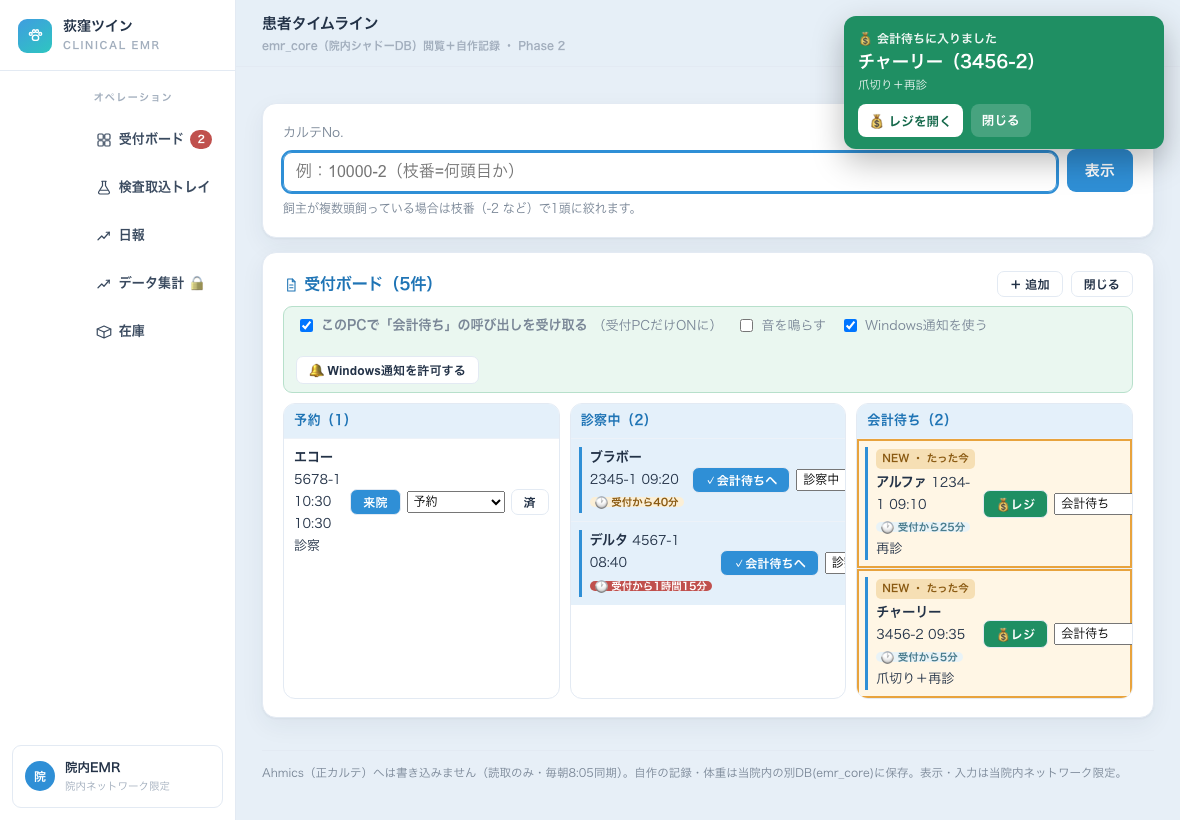
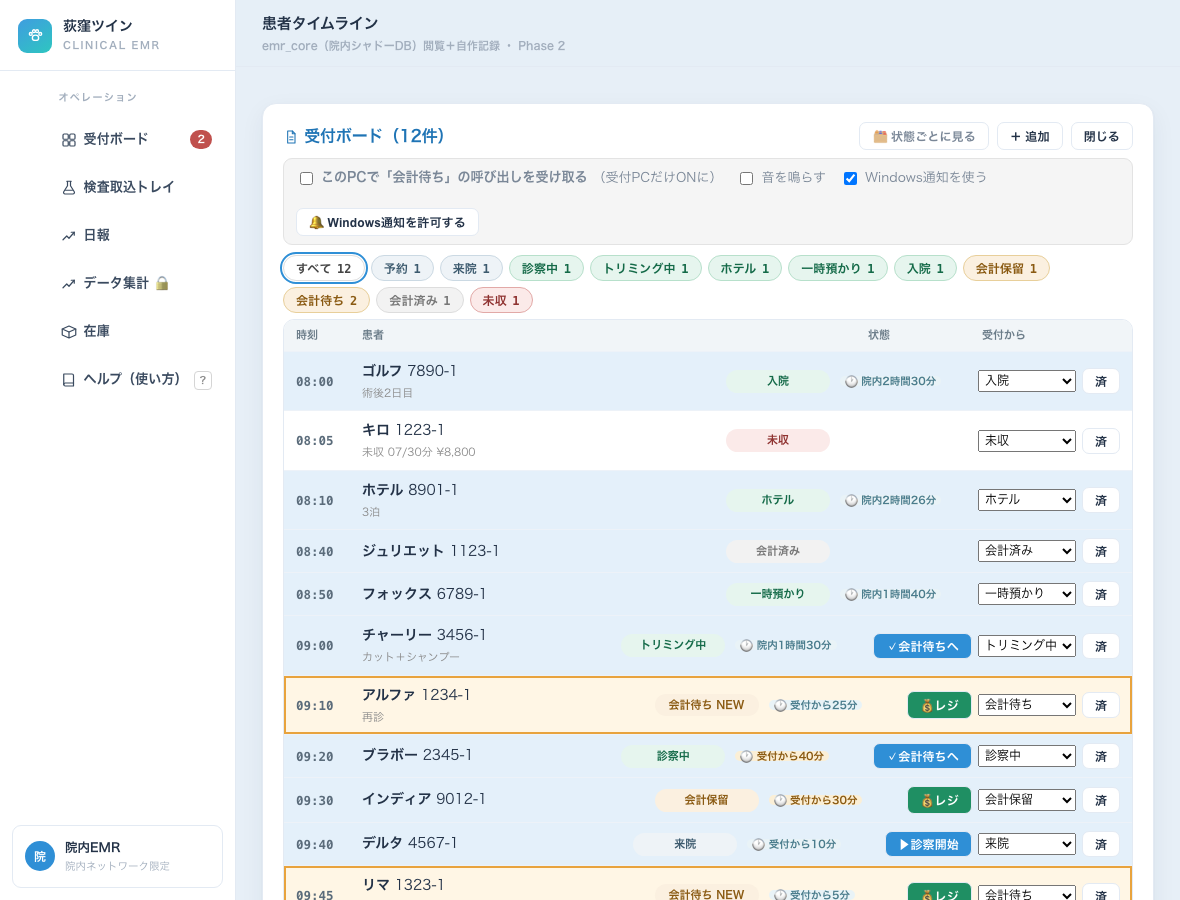
ガイドを現状に更新（受付ボードの一覧表示・検査取込トレイ・経過時間の色）

diff --git a/emr.html b/emr.html
@@ -53,7 +53,7 @@
 
 <h1>電子カルテ（患者タイムライン）使用ガイド
 <small><a href="./" style="color:#fff;text-decoration:underline">← ガイド一覧へ</a></small>
-<small>受付・看護師・獣医師向け ｜ 2026年8月15日版 ｜ 荻窪ツイン動物病院</small></h1>
+<small>受付・看護師・獣医師向け ｜ 2026年8月17日版 ｜ 荻窪ツイン動物病院</small></h1>
 
 <div class="card">
 <b>30秒まとめ</b><br>
@@ -87,22 +87,39 @@
 <tr><td>その下</td><td>来院ごとの時系列。カルテ本文・検査値・体重・会計・画像が日付順に並びます</td></tr>
 </table>
 <div class="tip">上の検索窓の右にある絞り込みで「カルテだけ」「検査だけ」などに絞れます。虫めがねで<b>本文の言葉検索</b>もできます。</div>
+<div class="tip">左の<b>オペレーション</b>（受付ボード・検査取込トレイ・日報・データ集計・在庫）は<b>常に1つだけ開きます</b>。次を開くと前のものは閉じ、［閉じる］で患者の画面に戻ります。</div>
 
 <h2>3. 受付のしごと</h2>
 
 <h3>3-1. 受付ボード</h3>
 <img class="shotw" src="emr-board.png" alt="受付ボード">
 <div class="cap">受付ボード（説明用の架空データです）</div>
-<p>左の<span class="chip c-blue">受付ボード</span>から開きます。<b>今日の予約は朝、自動で「予約」の列に並びます</b>（再来機で受付すると自動で「来院」に進みます）。</p>
+<p>左の<span class="chip c-blue">受付ボード</span>から開きます。<b>今日の予約は朝、自動で並びます</b>（再来機で受付すると自動で「来院」に進みます）。</p>
+
+<p><b>ふだんは「1人1行」の一覧です。</b>受付した時刻の順に上から並ぶので、<b>誰がどの状態か、探す場所は1か所</b>です。</p>
 <table>
-<tr><th>列</th><th>意味</th></tr>
-<tr><td>予約</td><td>今日来る予定。まだ来ていない</td></tr>
-<tr><td>来院 → 診察中 → 会計待ち</td><td>青いボタンを押すだけで次に進みます</td></tr>
-<tr><td>会計保留</td><td>レジを途中まで作って保留にした状態</td></tr>
-<tr><td>未収</td><td>前の日までの未払い。翌日から自動で出ます</td></tr>
+<tr><th>列</th><th>内容</th></tr>
+<tr><td>時刻</td><td>受付した時刻（まだ来ていない予約は予約時刻）</td></tr>
+<tr><td>患者</td><td>名前・カルテNo.・メモ</td></tr>
+<tr><td>状態</td><td>色つきの札。<b>青灰＝待合／緑＝進行中／橙＝会計／灰＝終わり・赤＝未収</b></td></tr>
+<tr><td>受付から</td><td>経過時間（下記）</td></tr>
+<tr><td>操作</td><td>次に進めるボタン・💰レジ・状態の変更・済</td></tr>
 </table>
-<p>各行に <span class="chip c-teal">🕐 受付から40分</span> が出ます。<b>30分超で黄、1時間超で赤</b>。お待たせしている子がひと目で分かります。</p>
-<div class="note"><b>「予約」のままの行には経過時間は出ません。</b>まだ来院していないためです。来院に進めた時刻から数え始めます。</div>
+
+<h4 style="margin:18px 0 6px">上の札で絞り込めます</h4>
+<p>いちばん上に <span class="chip c-blue">すべて 12</span> <span class="chip c-teal">診察中 1</span> <span class="chip c-amber">会計待ち 2</span> … と件数が並びます。<b>押すとその状態の人だけ</b >になります。もう一度「すべて」で戻ります。</p>
+
+<h4 style="margin:18px 0 6px">状態ごとの表示にもできます</h4>
+<p>右上の<b>［🗂 状態ごとに見る］</b>で、状態ごとの列に切り替わります。<b>この設定はそのPCごとに覚えます</b>ので、好きな方で使ってください（［📋 一覧で見る］で戻ります）。</p>
+
+<h4 style="margin:18px 0 6px">受付からの経過時間</h4>
+<table>
+<tr><th>状態</th><th>出かた</th></tr>
+<tr><td><b>来院・診察中・会計待ち・会計保留</b></td><td><b>30分超で黄、1時間超で赤。</b>お待たせしている子がひと目で分かります</td></tr>
+<tr><td>トリミング中・ホテル・一時預かり・入院</td><td>「院内2時間30分」と<b>色を付けずに</b>表示（長くて当たり前なので、赤くすると本当に急ぐ人が埋もれるため）</td></tr>
+<tr><td>予約・会計済み・未収</td><td>出ません</td></tr>
+</table>
+<div class="note"><b>「予約」のままの行には経過時間は出ません。</b>まだ来院していないためです。<b>来院に進めた時刻から</b>数え始めます。再来機を使わなかった方は、受付で［来院］を押してください。</div>
 
 <h3>3-2. 会計の呼び出し（受付PCだけ）</h3>
 <p>受付ボードの上に設定の帯があります。<b>受付PCで1回チェックを入れるだけ</b>で、その後はずっと有効です。<b>他のPCには一切出ません。</b></p>
@@ -133,6 +150,18 @@
 <li>会計が終わると受付ボードが<b>自動で「会計済み」</b>になります</li>
 </ul>
 <div class="note">お薬を処方すると<b>在庫が自動で減ります</b>。在庫アプリに同じ名前が無い薬は減りません（「名寄せ」で一度ひも付ければ次から自動になります）。</div>
+
+<h3>3-4. 検査取込トレイ</h3>
+<p>外注に出した検査の結果は<b>メールで届いたものが自動で取り込まれ</b>、カルテNo.が分かるものは<b>その子のカルテに自動で入ります</b>。<b>自動で判定できなかったものだけ</b>がこのトレイに残ります。</p>
+<img class="shotw" src="emr-lab.png" alt="検査取込トレイ">
+<div class="cap">検査取込トレイ（説明用の架空データです）</div>
+<ul>
+<li><b>届いた日ごとにまとまり</b>、検査会社ごとに色が付きます（IDEXX＝青／ノースラボ＝紫／富士フイルム＝緑／アレルギー＝赤 など）</li>
+<li>出るのは<b>「誰の結果か」</b>です。検体番号（BP26-… や [135603]）は院内では使わないので<b>表示しません</b></li>
+<li>やること＝<b>［📄 開く］で中身を見て、カルテNo.を入れて［割当］</b>。これでその子のカルテに入ります</li>
+<li>同じ結果を2頭に付けたいときは［コピー］、要らないものは［破棄］</li>
+</ul>
+<div class="note"><b>［🧪 テスト送信］</b>は検査会社の接続テストです（IDEXXのダミー患者「存在しない」・ノースラボの TEST）。<b>当院の患者とは関係ない</b>ので、ふだんは見なくて大丈夫です。</div>
 
 <h2>4. 診察のしごと</h2>
 <table>
